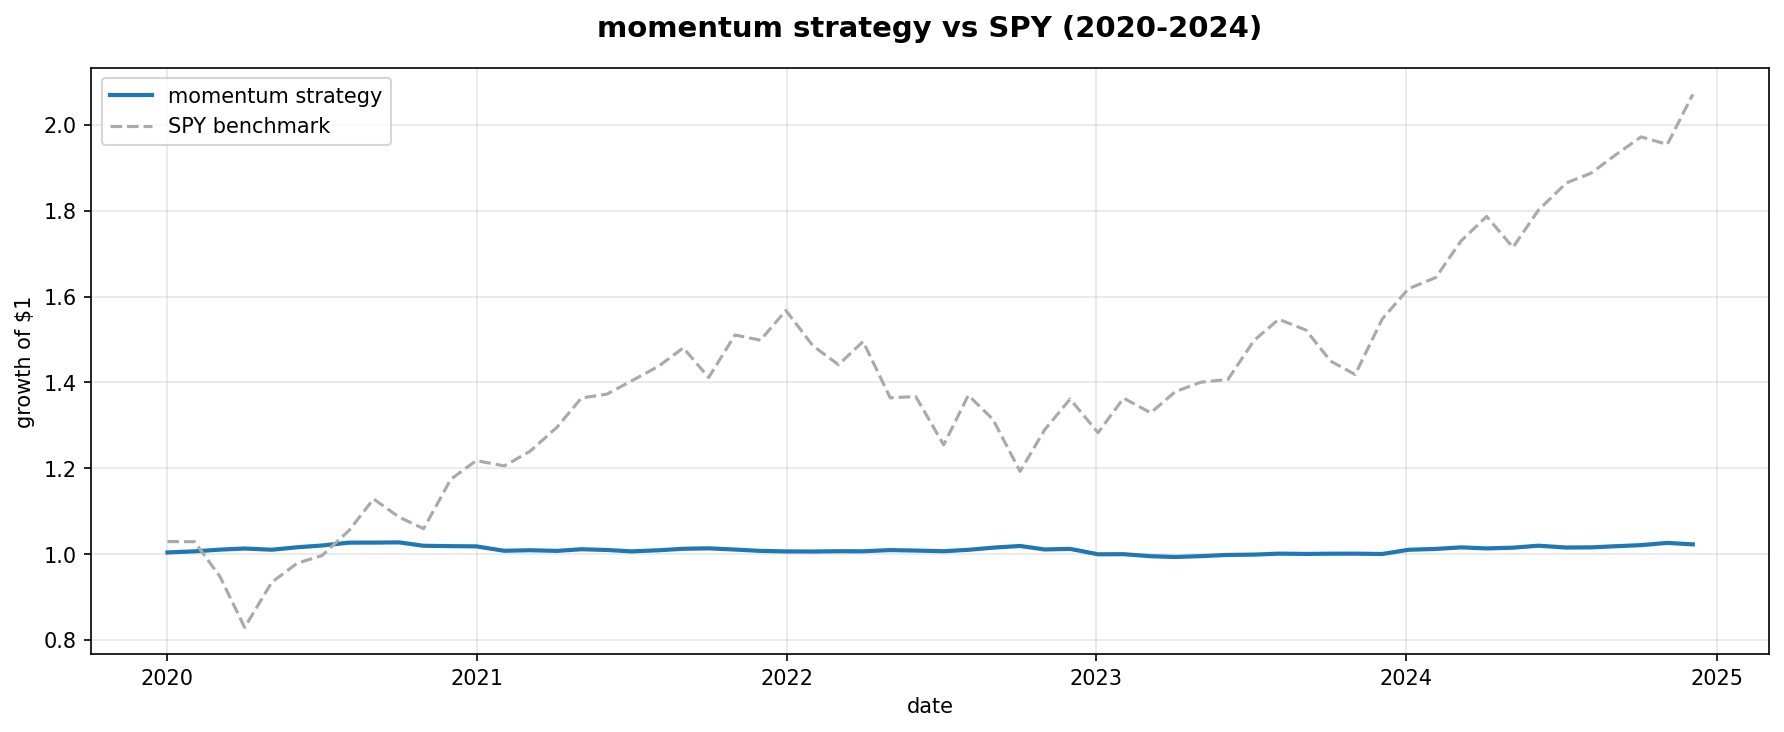
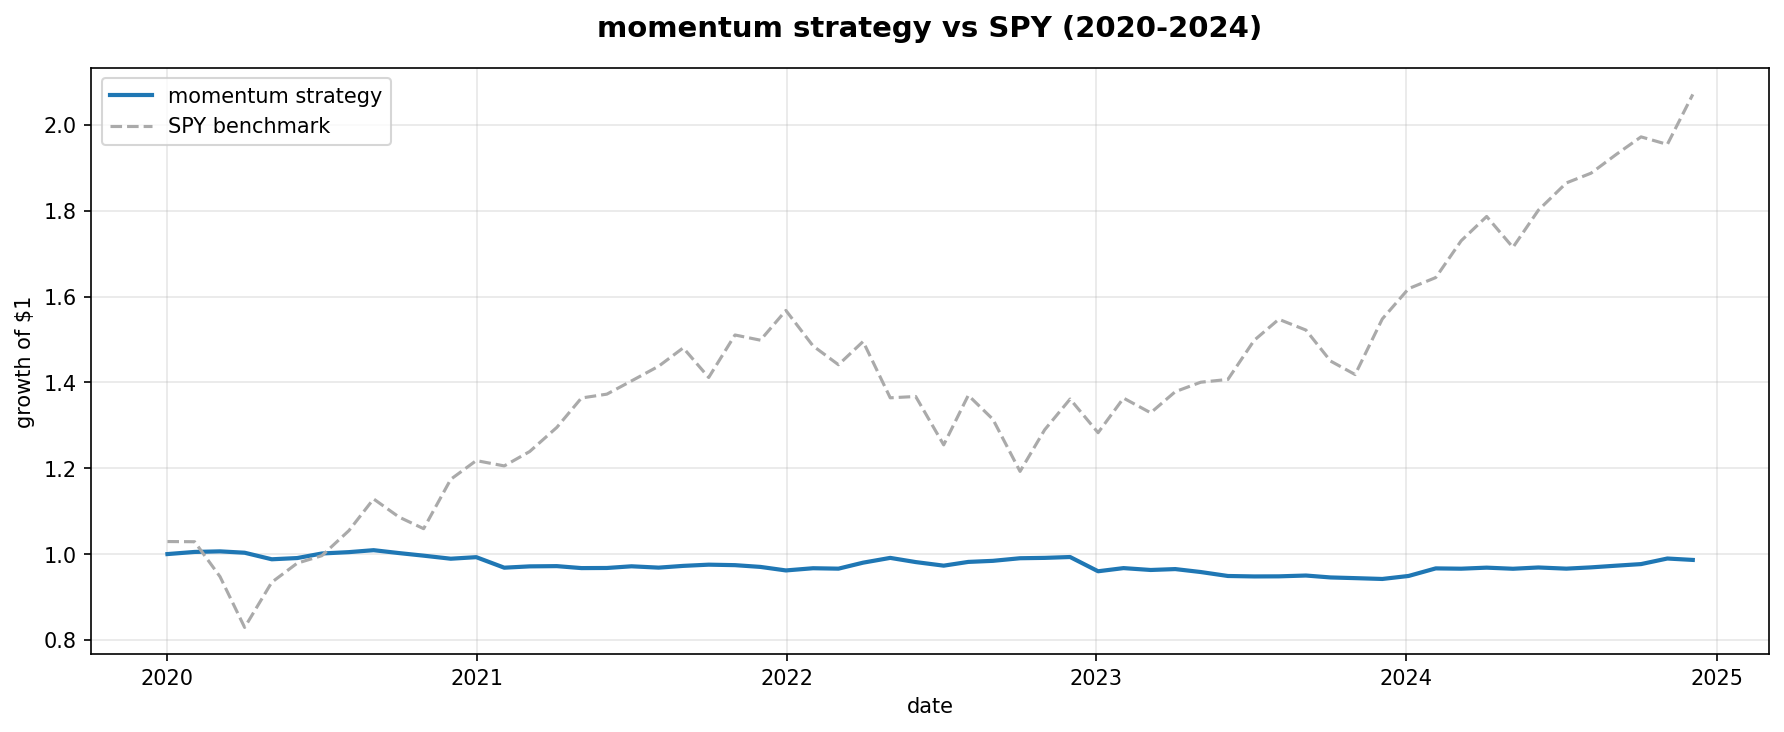
Regenerate charts and finalize README for full-universe backtest with costs, second signal, and OOS split

Changed region(s): [[0.0925, 0.7213, 0.9557, 0.8115]]

diff --git a/README.md b/README.md
@@ -1,67 +1,149 @@
 # momentum-equity-research
 
-I got interested in quant finance a few months ago and kept seeing 
-"momentum" mentioned everywhere, in job descriptions, in research 
-papers, in interviews. I had no idea what it actually meant in 
+I got interested in quant finance a few months ago and kept seeing
+"momentum" mentioned everywhere, in job descriptions, in research
+papers, in interviews. I had no idea what it actually meant in
 practice so I decided to just build it and find out.
 
-This is a from-scratch implementation of a cross-sectional momentum 
-strategy on S&P 500 stocks, backtested over 2020-2024. Nothing 
-fancy, just enough to understand how the signal works and whether 
-it holds up on real data.
+This started as a small 18-stock backtest and has grown into a more
+complete research project: a cross-sectional momentum strategy on
+the full S&P 500, compared against a short-term mean-reversion
+signal, with transaction costs, statistical significance testing,
+and an out-of-sample stability check. Nothing here is groundbreaking
+— the point was to actually build the full research pipeline myself
+and be honest about what the results do and don't show.
 
 ## the idea
 
-Stocks that have been going up over the past year tend to keep going 
-up. Stocks that have been falling tend to keep falling. This sounds 
-obvious but it's one of the most documented patterns in finance 
-(Jegadeesh & Titman 1993 if you want to go down that rabbit hole).
+Stocks that have been going up over the past year tend to keep going
+up (momentum). Stocks that have fallen recently tend to bounce back
+over a much shorter horizon (mean-reversion). Both are well-documented
+patterns in finance (Jegadeesh & Titman 1993 for momentum, Jegadeesh
+1990 for short-term reversal) but they reflect opposite intuitions,
+so I wanted to build both and see how they actually compare on the
+same data rather than just taking the literature's word for it.
 
-Every month the strategy ranks 18 S&P 500 stocks by their return 
-over the past 12 months, skipping the most recent month to avoid 
-short-term reversal, and goes long the top 5, short the bottom 5.
+Momentum: ranks stocks by 12-month trailing return (skipping the most
+recent month), goes long the top 5, short the bottom 5, rebalanced
+monthly.
+
+Mean-reversion: ranks stocks by 1-month trailing return, inverted —
+goes long the biggest recent losers, short the biggest recent winners,
+also rebalanced monthly.
+
+## universe
+
+Originally 18 hand-picked large-cap stocks. Now pulls the actual
+current S&P 500 constituent list from Wikipedia (~500 tickers,
+minus a handful that come back with no data — some IPOs/delistings
+fall inside the 2019-2024 window). Bigger universe means a cleaner,
+more representative signal instead of one built on 18 stocks I
+happened to pick.
+
+## transaction costs
+
+Everything below is reported both **gross** (no costs, the old way I
+was doing it) and **net** (after a 10bps round-trip cost assumption
+per position per rebalance, meant to roughly capture bid-ask spread
+and commissions on large-cap equities). This turned out to matter a
+lot — see results below.
 
 ## results
 
-60 monthly periods, 2020-2024.
+60 monthly periods for momentum (2020-2024), 71 for mean-reversion
+(2019-2024 — it needs a shorter lookback so more of the data is usable).
 
-| metric | value |
-|--------|-------|
-| annualised return | 0.5% |
-| sharpe ratio | 0.33 |
-| max drawdown | -3.3% |
-| hit rate | 60% |
+| metric | momentum net | momentum gross | mean-rev net | mean-rev gross |
+|---|---|---|---|---|
+| total return | -1.4% | 4.7% | -7.0% | -0.1% |
+| annualised return | -0.2% | 1.0% | -1.2% | 0.0% |
+| annualised vol | 2.9% | 2.9% | 2.7% | 2.7% |
+| sharpe ratio | -0.08 | 0.34 | -0.45 | 0.00 |
+| max drawdown | -6.6% | -4.0% | -8.2% | -4.7% |
+| hit rate | 55.0% | 58.3% | 45.1% | 56.3% |
 
-The absolute return looks terrible compared to just holding SPY, 
-but that's kind of the point, this is a market-neutral strategy, 
-not a buy-and-hold one. It's supposed to make money regardless of 
-whether the market goes up or down.
+**Momentum has a real, modest gross edge** — 0.34 Sharpe and a 58.3%
+hit rate, consistent with what the literature would predict for a
+simple 12-month specification. **A 10bps transaction cost assumption
+is enough to erase it completely.** The math checks out: 10bps × 12
+rebalances/year ≈ 1.2% annual drag, and gross annualised return (1.0%)
+minus that drag lands almost exactly on the net result (-0.2%).
 
-The number I actually care about is the 60% hit rate. It means the 
-signal was right more often than wrong, which suggests momentum is 
-real in this universe even if the returns are small.
+**Mean-reversion shows essentially no edge at all**, gross or net —
+this isn't a cost story, there's just nothing there at this monthly
+rebalance frequency and 1-month lookback.
 
-It struggled in 2021-2023. Looking back that makes sense — there 
-was a lot of sector rotation during that period where recent winners 
-suddenly reversed. Classic momentum crash environment.
+## is the momentum edge actually real, or just noise?
+
+With only 60 monthly observations, a 0.34 Sharpe could plausibly
+happen by chance. I ran a one-sample t-test on each return series to
+check.
+
+| | momentum gross | momentum net | mean-rev gross | mean-rev net |
+|---|---|---|---|---|
+| t-statistic | 0.75 | -0.18 | 0.01 | -1.08 |
+| p-value | 0.456 | 0.855 | 0.990 | 0.282 |
+
+**None of these are statistically significant at the 5% level.**
+Even momentum gross, the strongest result, isn't close. Honestly,
+this makes sense once I thought about it — the academic literature
+on momentum typically uses decades of data across much broader
+universes. A 5-year window isn't enough statistical power to
+confirm an edge this small, even if it's directionally real. This
+is a genuine limitation, not something I'm trying to explain away.
+
+## is it stable over time?
+
+I split the backtest at a fixed date (Jan 2023, chosen before
+looking at either half's results) to check whether the signals hold
+up consistently or whether the full-sample numbers are hiding
+something.
+
+**Momentum held up reasonably well.** Gross Sharpe went from 0.38
+(2020-2022) to 0.28 (2023-2024) — same sign, similar magnitude, mild
+decay. Net Sharpe was negative in both halves (-0.08 and -0.09),
+which matches the cost story above: the cost problem is structural,
+not specific to one period.
+
+**Mean-reversion's result was the interesting one.** Gross Sharpe was
+-0.32 in the first period and +0.66 in the second — a complete flip.
+This actually changes how I read the full-sample "no edge" result
+from above: it wasn't a stable near-zero edge, it was a strongly
+negative period and a strongly positive period roughly canceling
+out. That's a more precise (and more honest) conclusion than "the
+signal doesn't work" — it suggests real instability or regime-
+dependence rather than a flatly absent effect. With only ~24-36
+periods per half, I'd treat this as suggestive rather than
+conclusive — small samples make flips like this easier to produce
+by chance too.
 
 ## what tripped me up
 
-Look-ahead bias. I didn't know what this was before starting and it 
-took me a while to get right. The problem is it's easy to 
-accidentally use future data in a backtest. for example using the 
-same day's return to generate the signal AND measure performance. 
-Fixed it by shifting forward returns by one day so the portfolio 
-only earns returns after the signal is computed, not on the same 
-day.
+**Look-ahead bias.** Easy to accidentally use future data in a
+backtest — e.g. using the same day's return to generate the signal
+*and* measure performance. Fixed by shifting forward returns by one
+day so the portfolio only earns returns after the signal is
+computable, not on the same day.
 
-## what I'd do differently
+**Wikipedia blocking scraped requests.** `pd.read_html()` alone
+returned a 403 — Wikipedia rejects requests with no User-Agent
+header. Fixed by fetching the page manually with `requests` first
+and handing the HTML to pandas.
 
-- use the full S&P 500 instead of 18 stocks — more stocks means 
-  a cleaner signal
-- model transaction costs — right now assumes free trading
-- test other signals (value, low vol) alongside momentum
-- try an ML model to combine signals
+**yfinance choking on 500 tickers at once.** Batched the download
+into groups of 100 instead of a single call.
+
+## what I'd do differently / try next
+
+- add volatility scaling (size positions by inverse volatility)
+- test a longer lookback / lower rebalance frequency to reduce
+  turnover and see if that changes the cost picture
+- proper borrow-cost modeling for the short side, not just a flat
+  transaction cost
+- Fama-French factor exposure analysis
+- combine momentum and mean-reversion (or other signals) with an ML
+  model instead of evaluating them separately
+- test with a longer/older data window to get more statistical power
 
 ## charts
 
@@ -76,18 +158,29 @@ day.
 ```bash
 git clone https://github.com/Hena3124/momentum-equity-research
 cd momentum-equity-research
-pip install -r requirements.txt
-python data.py
-python signals.py
-python backtest.py
-python charts.py
+pip3 install -r requirements.txt
+python3 data.py              # downloads/caches full S&P 500 price history
+python3 signals.py           # inspect the momentum signal on the latest day
+python3 backtest.py          # run the momentum backtest (net + gross)
+python3 compare_signals.py   # momentum vs mean-reversion, net + gross
+python3 significance_test.py # t-tests on all four return series
+python3 oos_split.py         # pre-2023 vs 2023+ stability check
+python3 charts.py            # generate the charts above
 ```
 
 ## stack
-Python · pandas · NumPy · yfinance · matplotlib
+Python · pandas · NumPy · yfinance · matplotlib · scipy · requests
 
 ## limitations
-- small universe (18 stocks) — not enough breadth for a strong signal
-- no transaction costs
-- survivorship bias — all stocks I picked are still trading today
-- short selling assumed to be free (no borrow costs)
+- only 5 years of data (2019-2024) — not enough statistical power to
+  confirm a small edge even if it's directionally real
+- survivorship bias — the S&P 500 list is the *current* constituent
+  list, so it doesn't include stocks that were removed from the index
+  over 2019-2024
+- transaction cost model is a flat 10bps assumption, not based on
+  actual liquidity/spread data per stock
+- short selling assumed to have no separate borrow cost beyond the
+  flat transaction cost
+- out-of-sample split uses fairly small samples per half (24-47
+  periods), so the mean-reversion "flip" result should be treated
+  as suggestive, not conclusive
